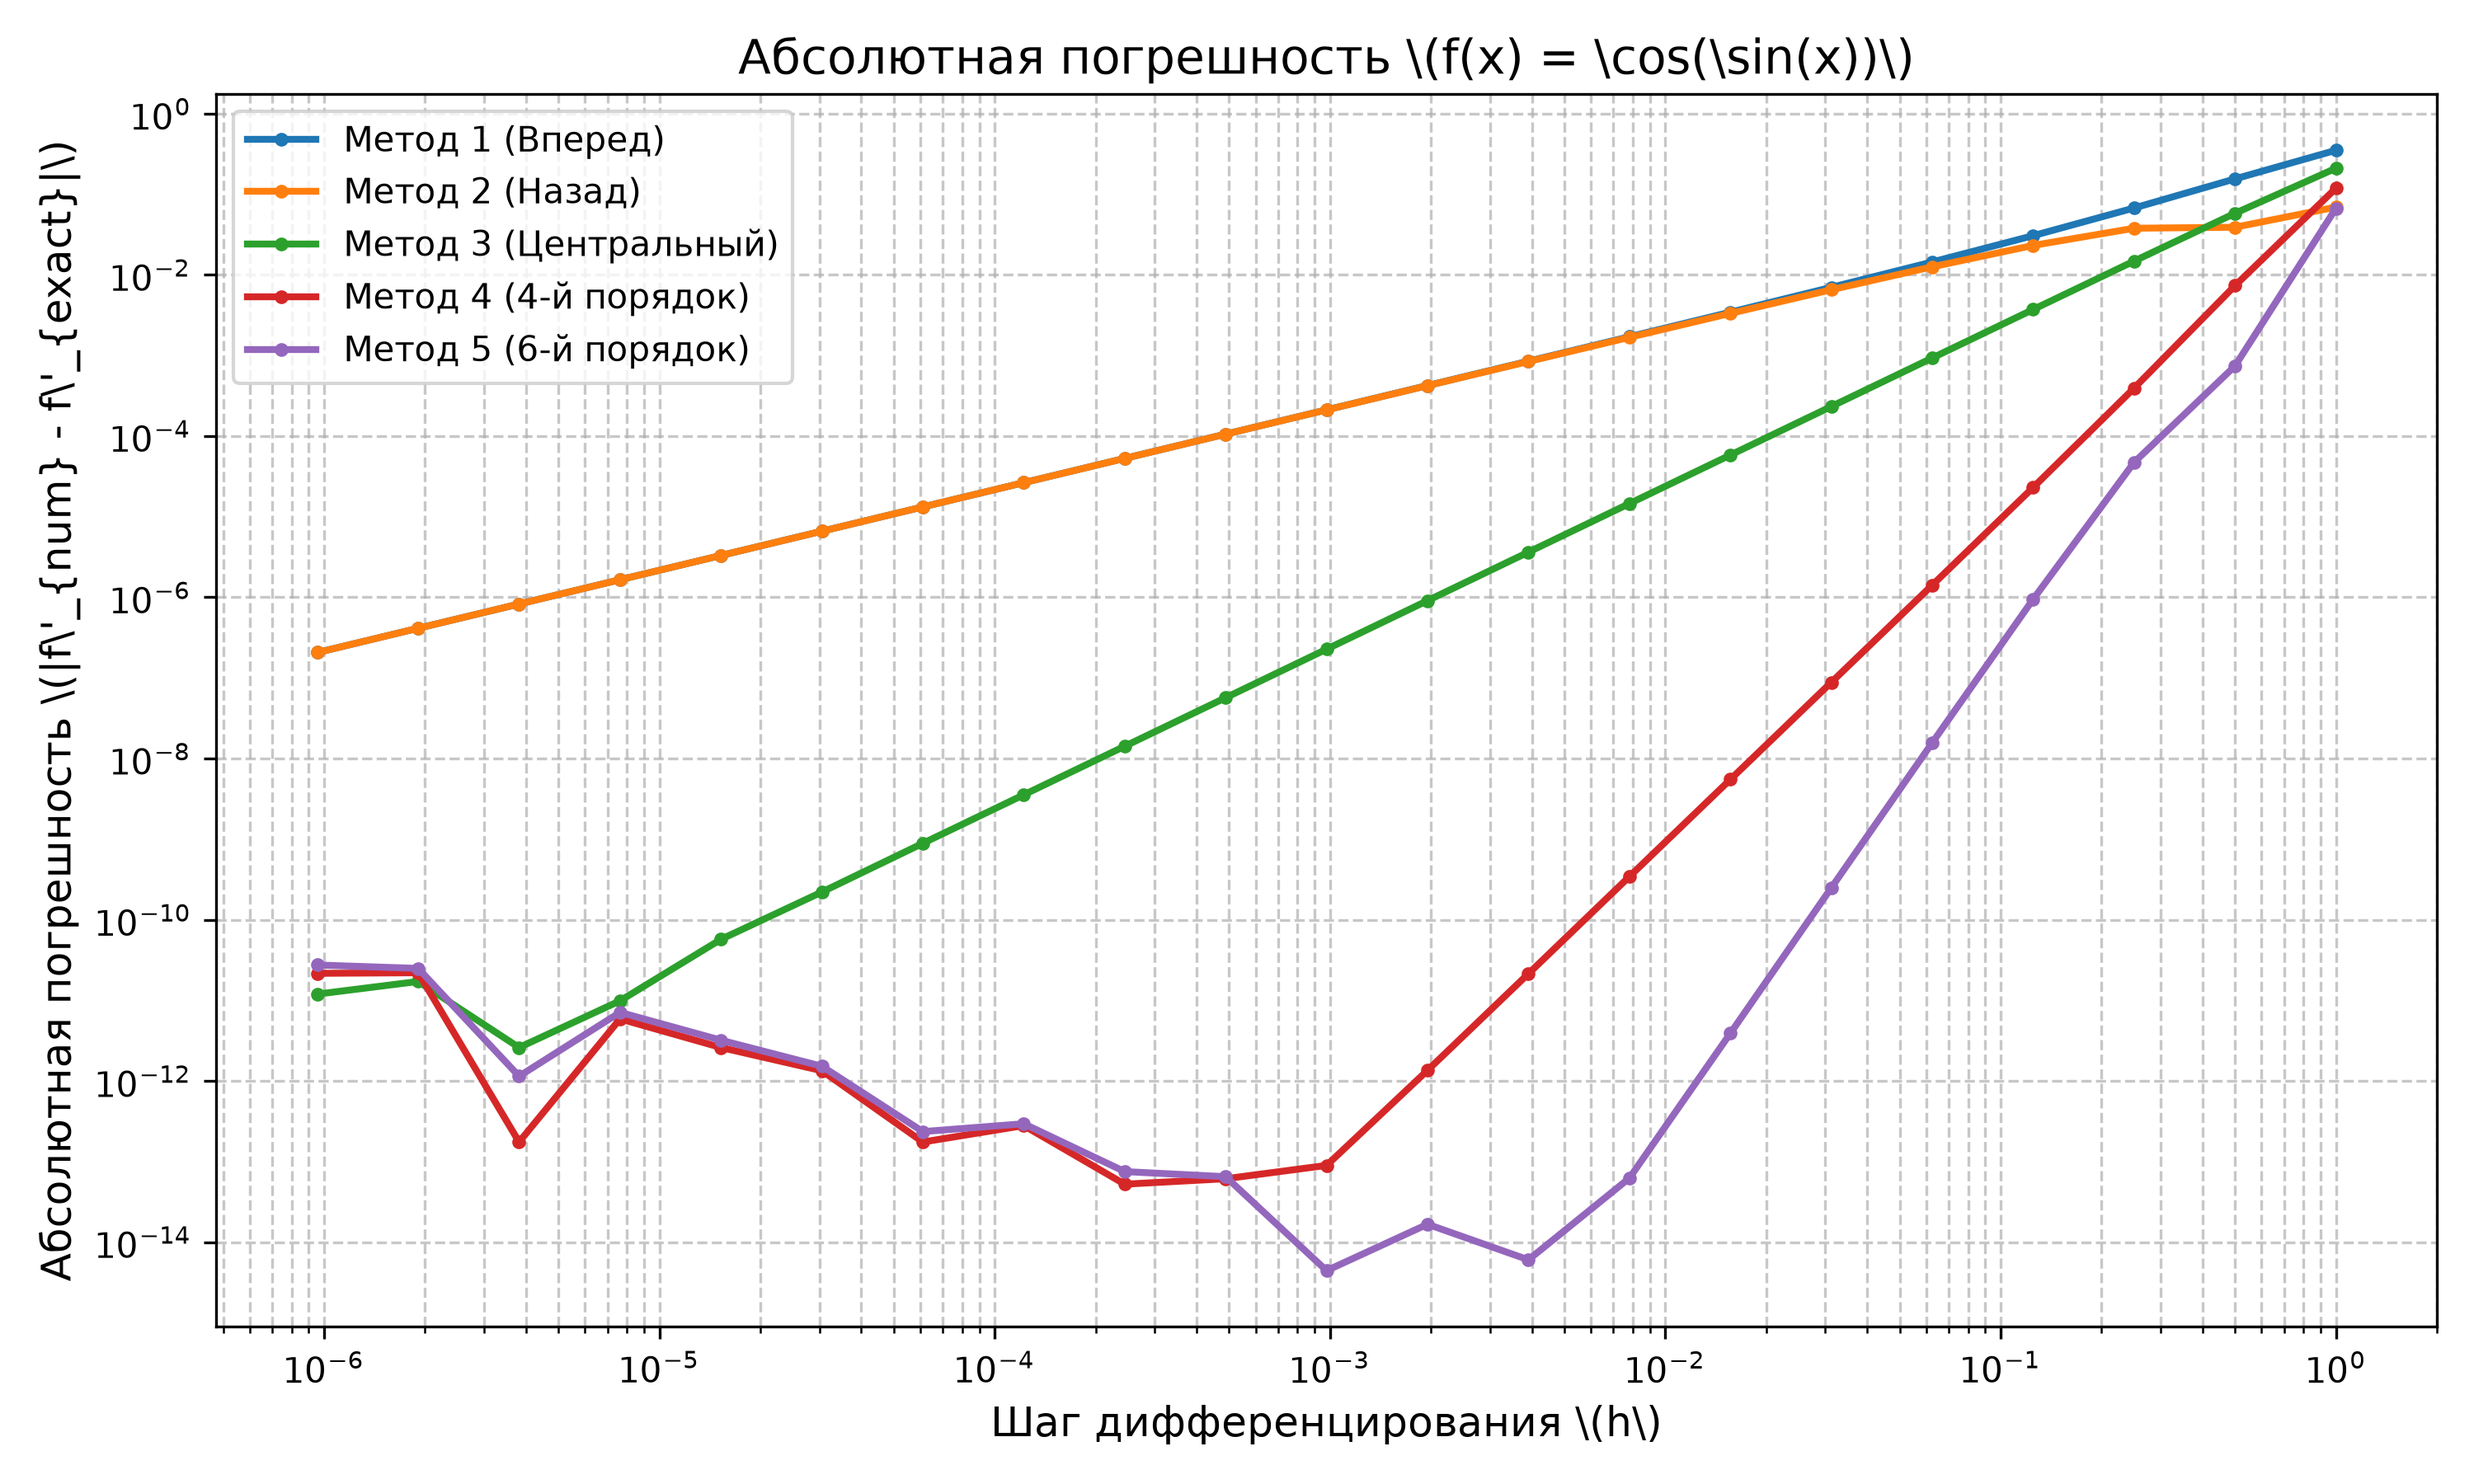
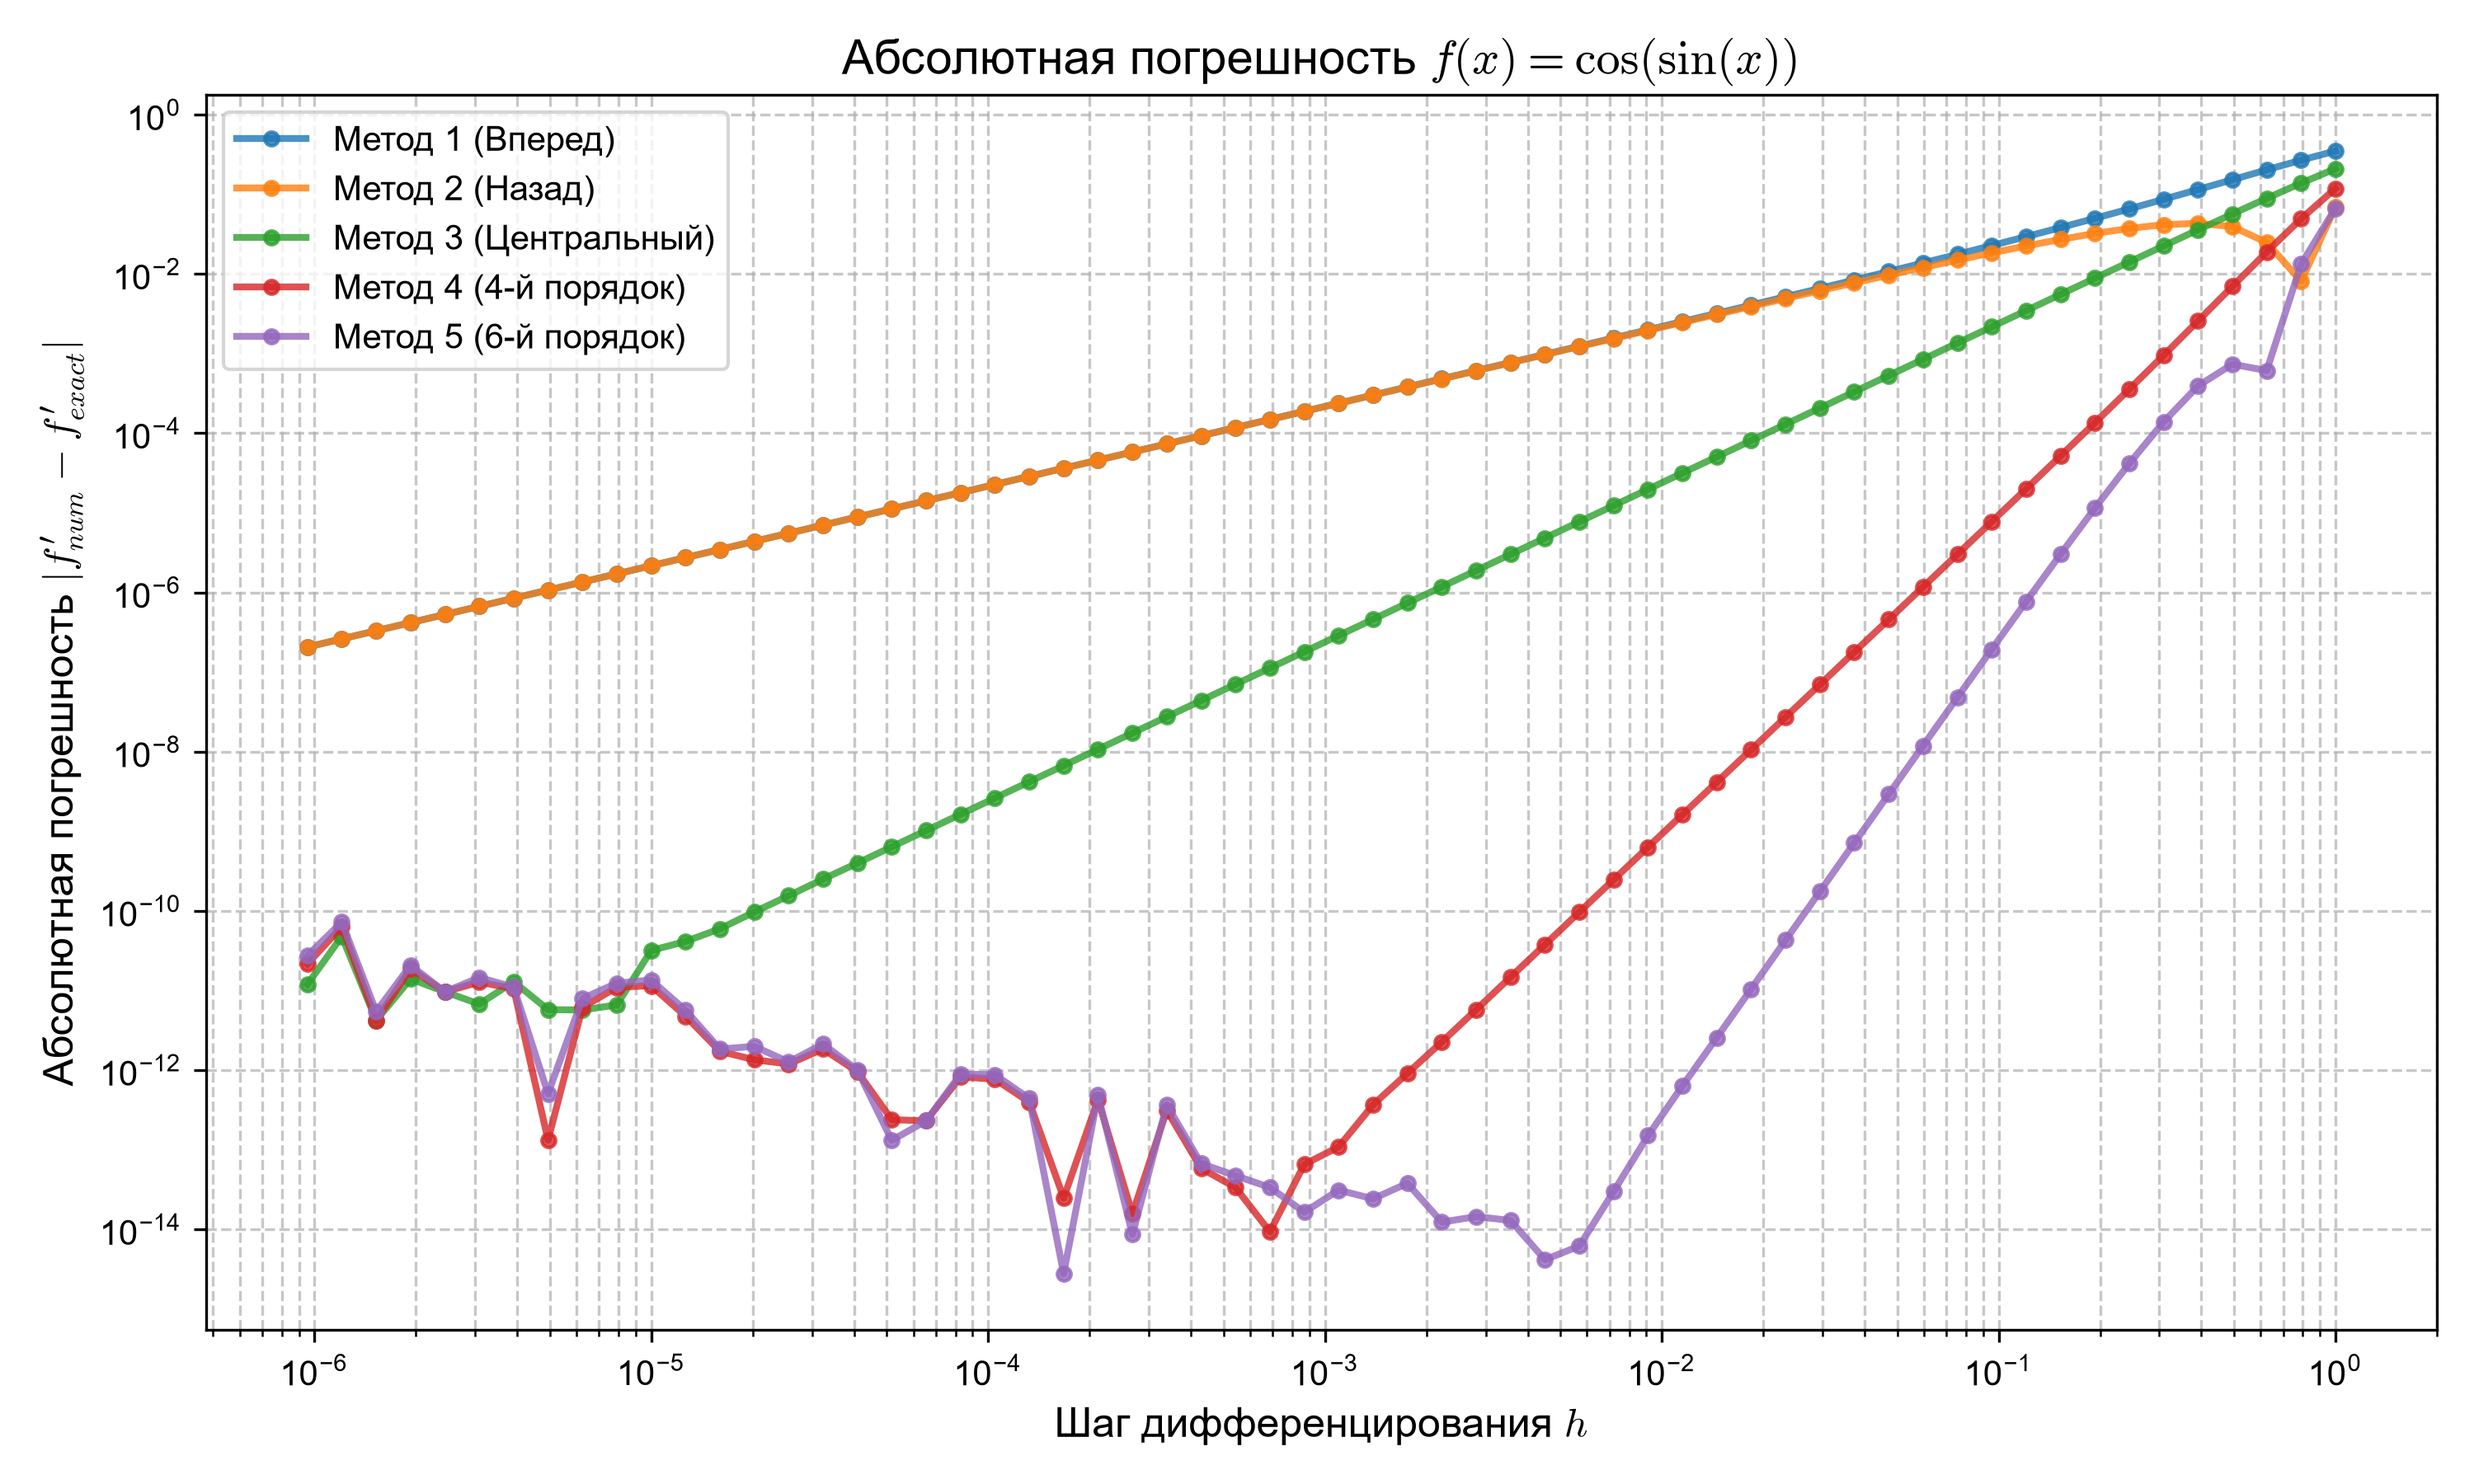
Fix formulas and increase points on plots in lab 1

diff --git a/1 lab/main.py b/1 lab/main.py
@@ -3,6 +3,8 @@ import matplotlib.pyplot as plt
 import os
 
 # --- 1. ФУНКЦИИ И ИХ АНАЛИТИЧЕСКИЕ ПРОИЗВОДНЫЕ ---
+# Обратите внимание: здесь мы используем обычные строки, 
+# символы $ для формул добавим уже при построении графиков.
 def f1(x): return np.sin(x**2)
 def df1(x): return 2 * x * np.cos(x**2)
 
@@ -19,7 +21,6 @@ def f5(x): return (x + 3)**0.5
 def df5(x): return 0.5 / np.sqrt(x + 3)
 
 # --- 2. МЕТОДЫ ЧИСЛЕННОГО ДИФФЕРЕНЦИРОВАНИЯ ---
-# Формулы строго по заданию
 def method1(f, x, h): 
     return (f(x + h) - f(x)) / h
 
@@ -37,24 +38,25 @@ def method5(f, x, h):
 
 # --- 3. ОСНОВНАЯ ЛОГИКА ---
 def main():
-    # Создаем папку для картинок, если ее нет
     if not os.path.exists('pictures'):
         os.makedirs('pictures')
 
-    # Точка, в которой считаем производную (можно выбрать любую, например 1.0)
     x0 = 1.0 
     
-    # Список шагов h_n = 2 / 2^n, от n=1 до 21
-    n_values = np.arange(1, 22)
+    # ИЗМЕНЕНИЕ 1: Делаем больше точек (60 штук вместо 21) для плавности графика.
+    # np.linspace(1, 21, 60) создает 60 равномерных значений от 1 до 21.
+    # Если преподаватель строго требует ровно 21 точку, замените эту строку на: n_values = np.arange(1, 22)
+    n_values = np.linspace(1, 21, 60) 
+    
     h_values = 2.0 / (2.0 ** n_values)
 
-    # Список функций: (функция, производная, название, индекс)
+    # ИЗМЕНЕНИЕ 2: Оборачиваем формулы в символы $ для правильного отображения
     functions = [
-        (f1, df1, r'\(f(x) = \sin(x^2)\)', 1),
-        (f2, df2, r'\(f(x) = \cos(\sin(x))\)', 2),
-        (f3, df3, r'\(f(x) = \exp(\sin(\cos(x)))\)', 3),
-        (f4, df4, r'\(f(x) = \ln(x+3)\)', 4),
-        (f5, df5, r'\(f(x) = (x+3)^{0.5}\)', 5)
+        (f1, df1, r'$f(x) = \sin(x^2)$', 1),
+        (f2, df2, r'$f(x) = \cos(\sin(x))$', 2),
+        (f3, df3, r'$f(x) = \exp(\sin(\cos(x)))$', 3),
+        (f4, df4, r'$f(x) = \ln(x+3)$', 4),
+        (f5, df5, r'$f(x) = (x+3)^{0.5}$', 5)
     ]
 
     methods = [
@@ -65,43 +67,40 @@ def main():
         (method5, 'Метод 5 (6-й порядок)')
     ]
 
-    # Включаем красивый шрифт для графиков
+    # Настройки шрифтов
     plt.rcParams['font.family'] = 'sans-serif'
-    plt.rcParams['mathtext.fontset'] = 'cm' # Шрифт как в LaTeX для формул
+    plt.rcParams['font.sans-serif'] = ['Arial', 'DejaVu Sans'] # Чтобы русские буквы не квадратиками были
+    plt.rcParams['mathtext.fontset'] = 'cm' 
 
-    for func, dfunc, title, idx in functions:
+    for func, dfunc, title_formula, idx in functions:
         plt.figure(figsize=(10, 6))
-        
-        # Идеальное (точное) значение производной
         exact_val = dfunc(x0)
 
-        # Считаем и строим графики для каждого метода
         for method, method_name in methods:
             errors = []
             for h in h_values:
-                # Численное значение
                 num_val = method(func, x0, h)
-                # Абсолютная погрешность
                 error = np.abs(num_val - exact_val)
                 errors.append(error)
             
-            # Строим график в логарифмическом масштабе по обеим осям
-            plt.loglog(h_values, errors, marker='.', label=method_name, linewidth=2)
+            # ИЗМЕНЕНИЕ 3: Увеличили размер маркеров (ms) и толщину линий (lw)
+            # marker='o' (кружочки) смотрится аккуратнее точек
+            plt.loglog(h_values, errors, marker='o', markersize=4, linewidth=2, label=method_name, alpha=0.8)
 
-        # --- Красивое оформление графика ---
-        plt.title(f'Абсолютная погрешность {title}', fontsize=14)
-        plt.xlabel(r'Шаг дифференцирования \(h\)', fontsize=12)
-        plt.ylabel(r'Абсолютная погрешность \(|f\'_{num} - f\'_{exact}|\)', fontsize=12)
-        plt.grid(True, which="both", ls="--", alpha=0.7) # Сетка для лог. шкалы
-        plt.legend(fontsize=10)
+        # ИЗМЕНЕНИЕ 4: Правильные символы $ для заголовка и осей
+        plt.title(f'Абсолютная погрешность {title_formula}', fontsize=14)
+        plt.xlabel(r'Шаг дифференцирования $h$', fontsize=12)
+        plt.ylabel(r'Абсолютная погрешность $|f^{\prime}_{num} - f^{\prime}_{exact}|$', fontsize=12)
         
-        # Сохранение графика
+        plt.grid(True, which="both", ls="--", alpha=0.7)
+        plt.legend(fontsize=10, loc='best')
+        
         filename = f'pictures/plot_{idx}.png'
         plt.tight_layout()
-        plt.savefig(filename, dpi=300) # dpi=300 для хорошего качества
-        plt.close() # Закрываем окно, чтобы не забивать память
+        plt.savefig(filename, dpi=300)
+        plt.close()
         print(f'Сохранен график: {filename}')
 
 if __name__ == '__main__':
     main()
-    print('Все графики успешно построены и сохранены в папку pictures!')
+    print('Все графики успешно перестроены!')
